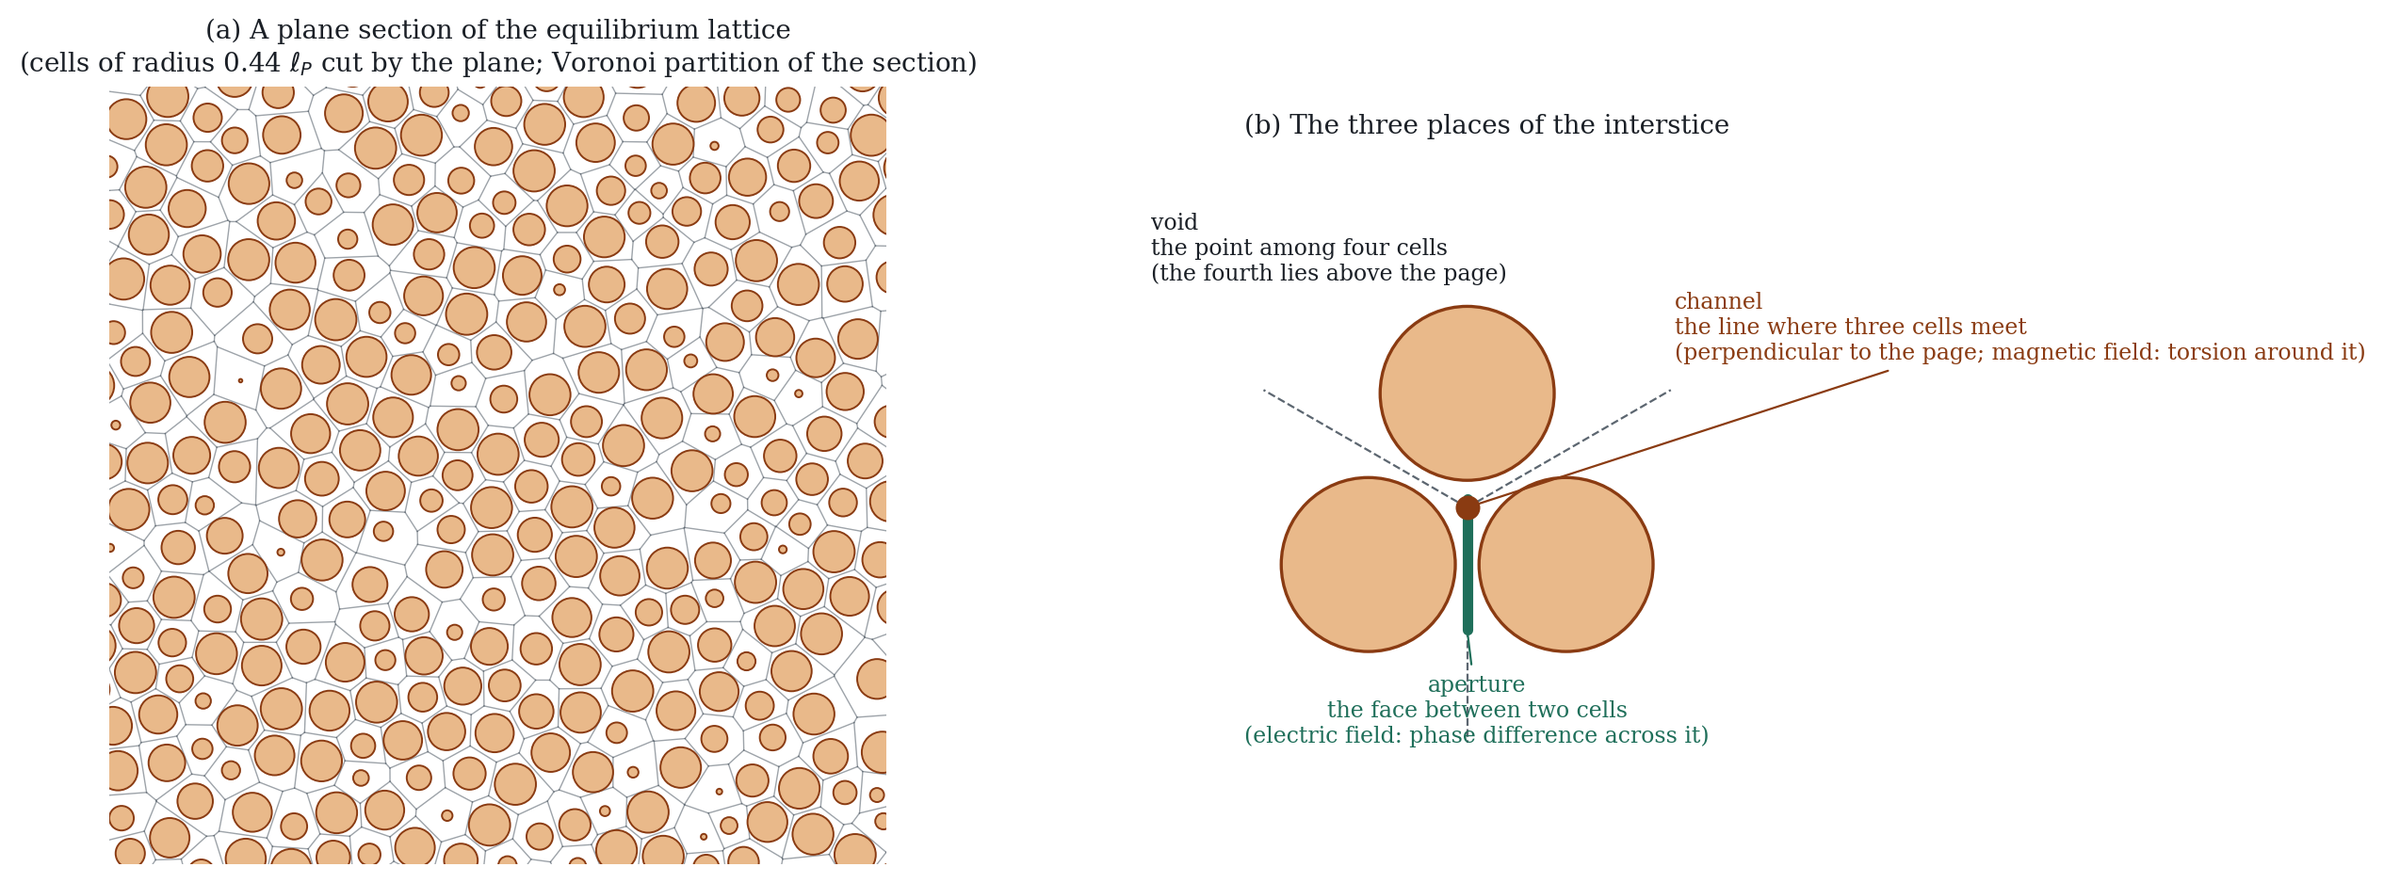
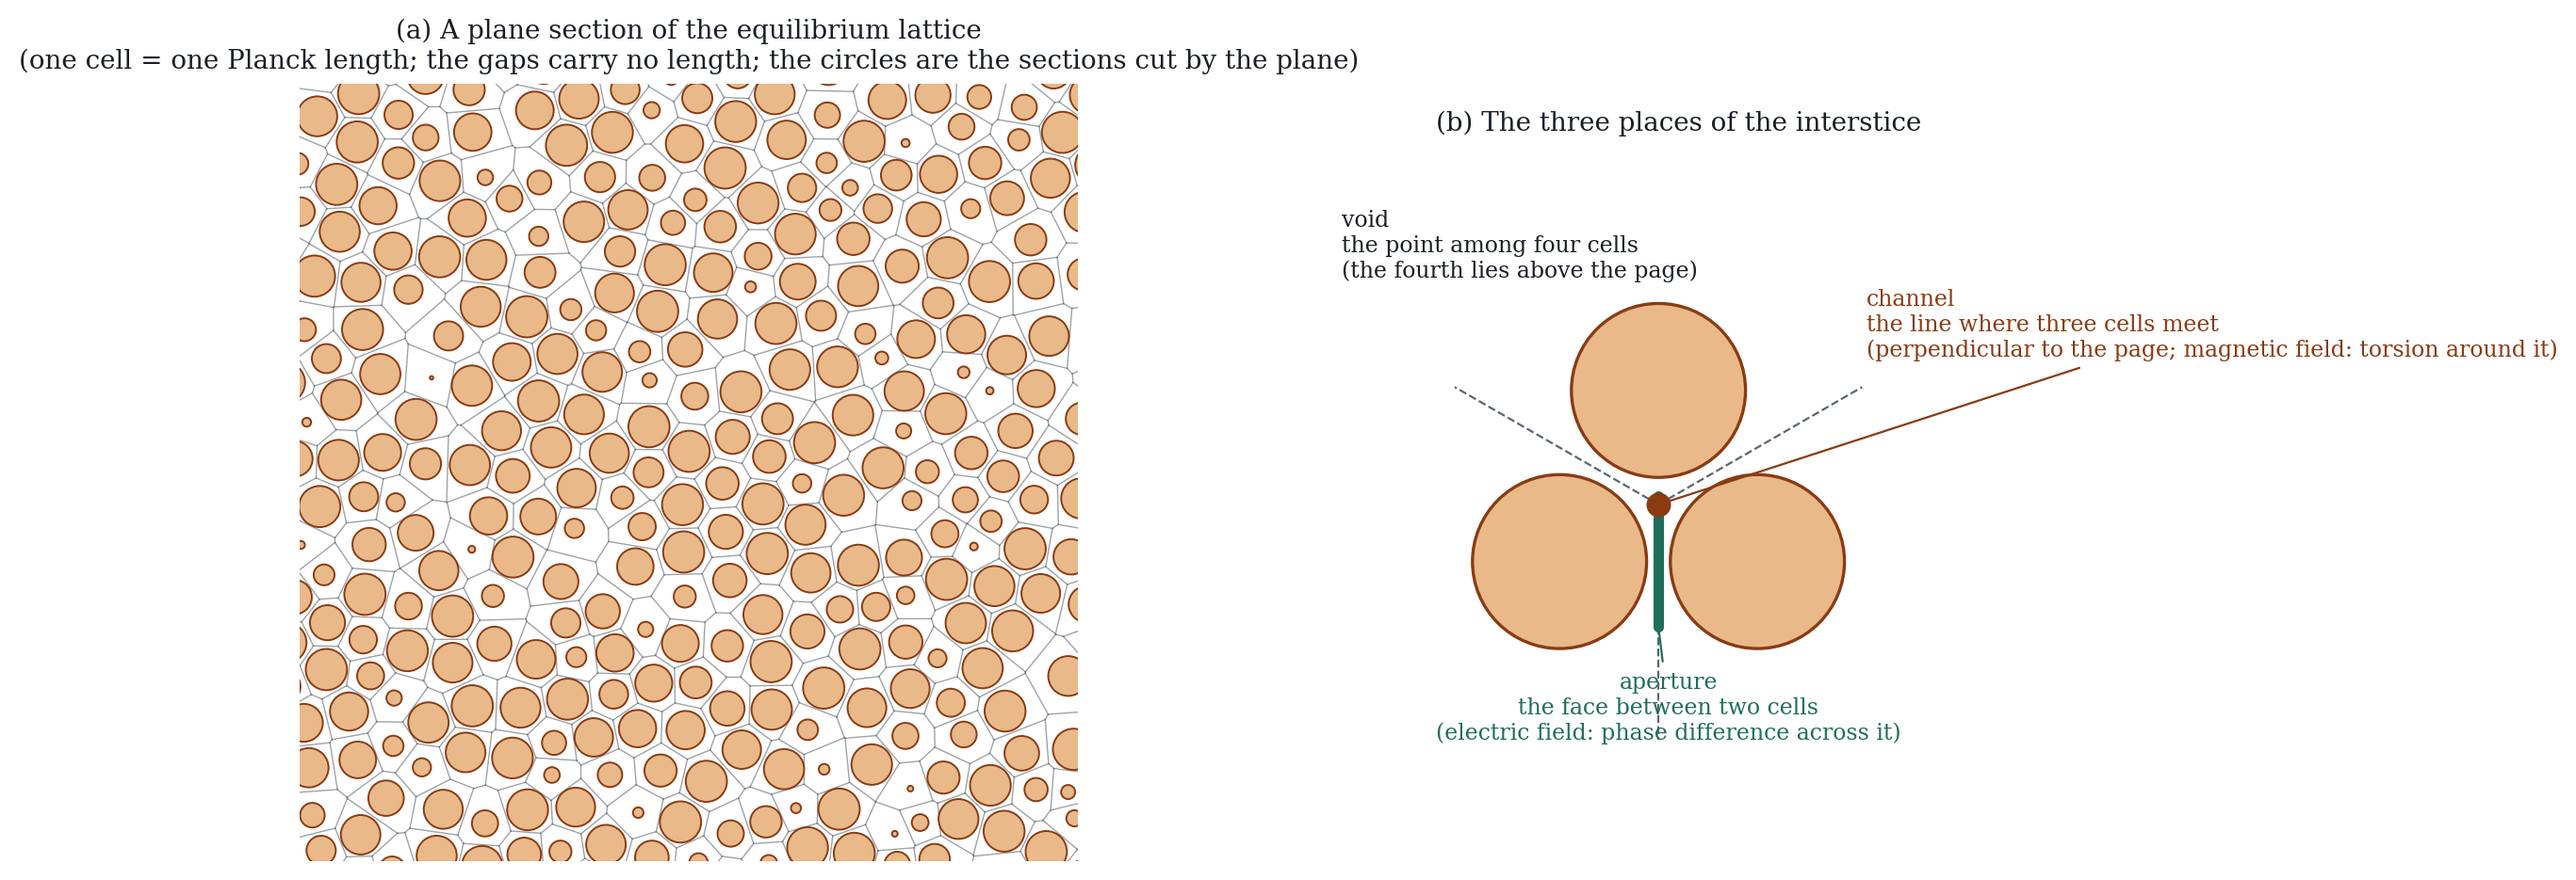
Add files via upload
fix reference scale

Changed region(s): [[0.0, 0.0, 0.5306, 0.9925], [0.4682, 0.2481, 0.9988, 0.8684], [0.5306, 0.1241, 0.7491, 0.1551]]

diff --git a/docs/figures/README.md b/docs/figures/README.md
@@ -2,7 +2,7 @@
 
 | file | content | source |
 |---|---|---|
-| `fig1_lattice.png` | (a) plane section of a 20 000-cell equilibrium lattice; (b) the three places of the interstice | `code/analysis/figures.py` from `reticoli/equilibrio20000.pkl` |
+| `fig1_lattice.png` | (a) plane section of a 20 000-cell equilibrium lattice (one cell = one Planck length, the interstice carries no length; circles are the plane sections); (b) the three places of the interstice | `code/analysis/figures.py` from `reticoli/equilibrio20000.pkl` |
 | `fig2_hydrogen_levels.png/.svg` | hydrogen levels on the lattice against Rydberg, with the deviation of the binding energy | `code/analysis/figures.py` from `results/grande.txt` and `results/grande25.txt` |
 | `fig3_lyman_convergence.png/.svg` | Lyman-α oscillator strength of six runs against 1/a₀², fit with a box term, observed value and extrapolated range | `code/analysis/figures.py` from the values in `results/` |
 | `fig4_hyperuniformity.png/.svg` | structure factor S(k) of four lattices (Poisson, minimum distance, relaxed, grown) | `fig4_hyperuniformity_data.json`, measured with the structure-factor routine of `code/mt_trasparenza.py` on 60 000-cell lattices |
